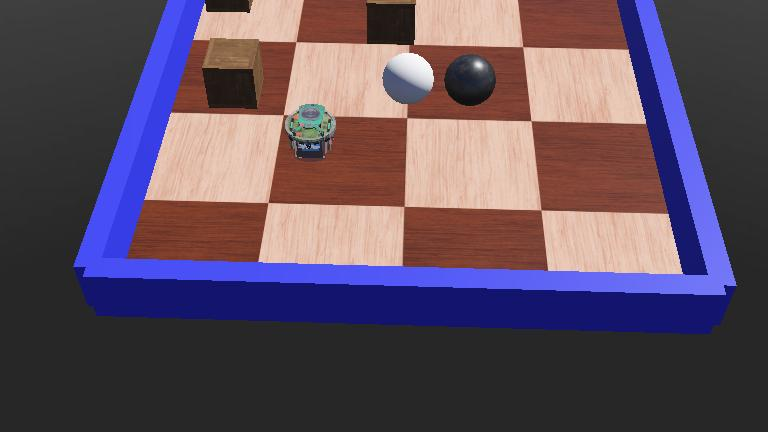
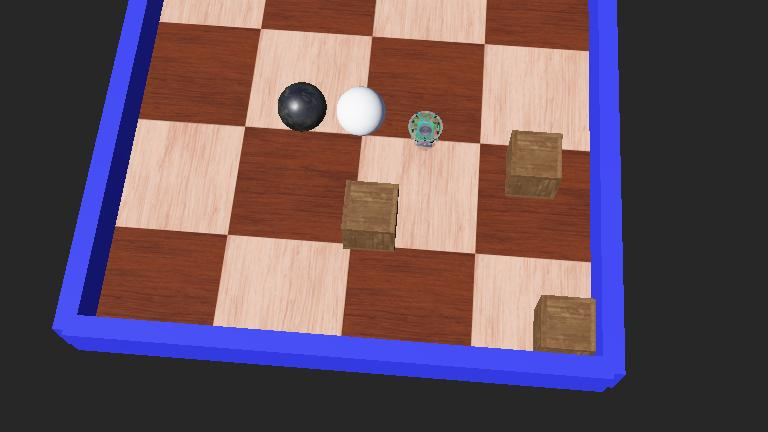
added four wheeled robot controller and model

diff --git a/webots-projects/controllers/four_wheeled_collision_avoidance/four_wheeled_collision_avoidance.py b/webots-projects/controllers/four_wheeled_collision_avoidance/four_wheeled_collision_avoidance.py
@@ -1,0 +1,40 @@
+from controller import Robot
+
+TIME_STEP = 64
+
+robot = Robot()
+
+ds = []
+dsNames = ['ds_right', 'ds_left']
+
+for i in range(2):
+    ds.append(robot.getDevice(dsNames[i]))
+    ds[i].enable(TIME_STEP)
+    
+wheels = []
+wheelsNames = ['Wheel_1', 'Wheel_2', 'Wheel_3', 'Wheel_4']
+
+for i in range(4):
+    wheels.append(robot.getDevice(wheelsNames[i]))
+    # print out the wheel names here
+    wheels[i].setPosition(float('inf'))
+    wheels[i].setVelocity(0.0)
+    
+avoidObstacleCounter = 0
+
+while robot.step(TIME_STEP) != -1:
+    leftSpeed = 1.0
+    rightSpeed = 1.0
+    if avoidObstacleCounter > 0:
+        avoidObstacleCounter -= 1
+        leftSpeed = 1.0
+        rightSpeed = -1.0
+    else:  # read sensors
+        for i in range(2):
+            if ds[i].getValue() < 950.0:
+                avoidObstacleCounter = 100
+                
+    wheels[0].setVelocity(leftSpeed)
+    wheels[1].setVelocity(rightSpeed)
+    wheels[2].setVelocity(leftSpeed)
+    wheels[3].setVelocity(rightSpeed)
